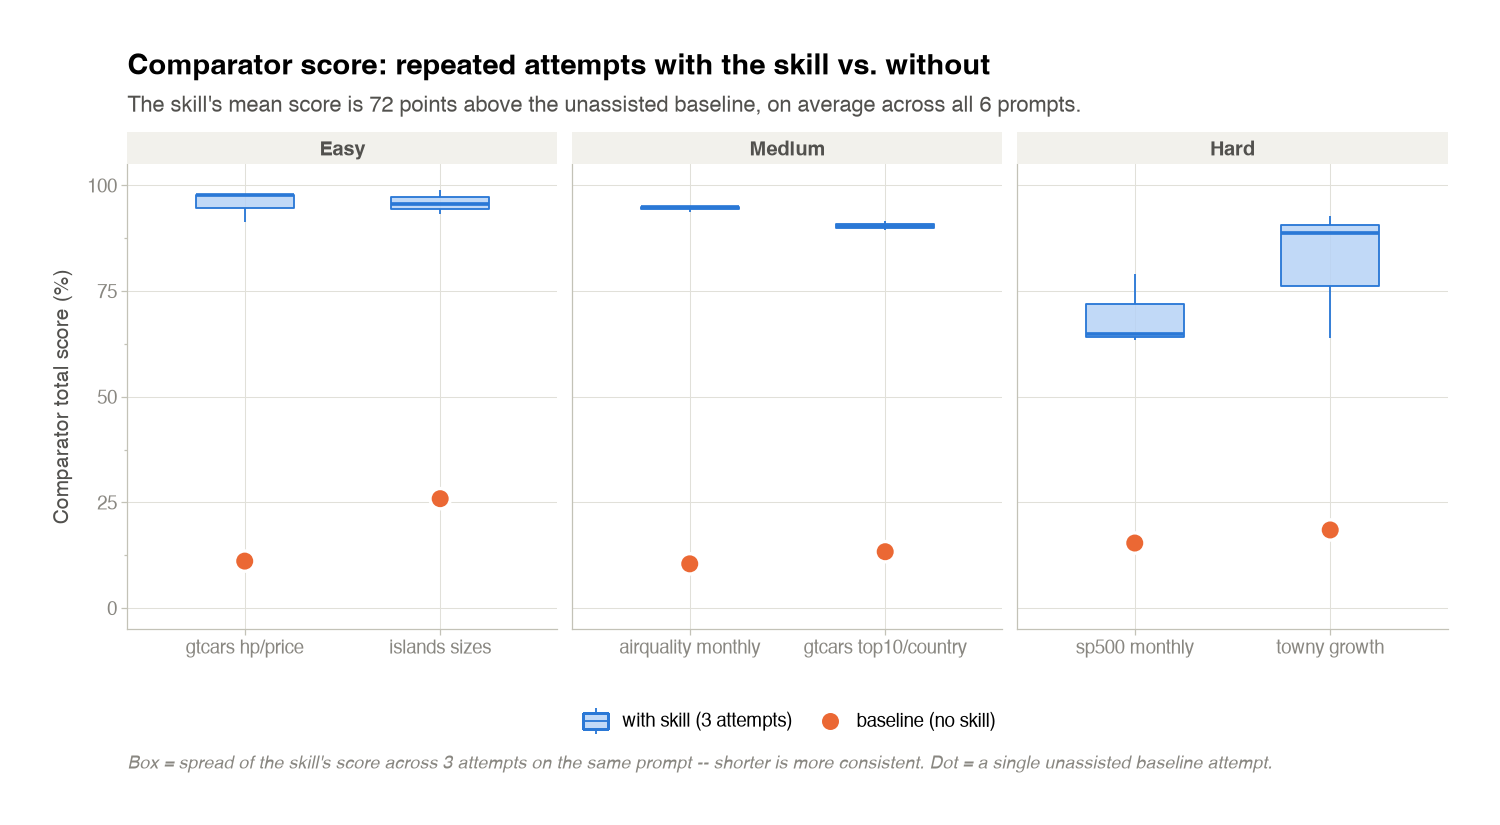
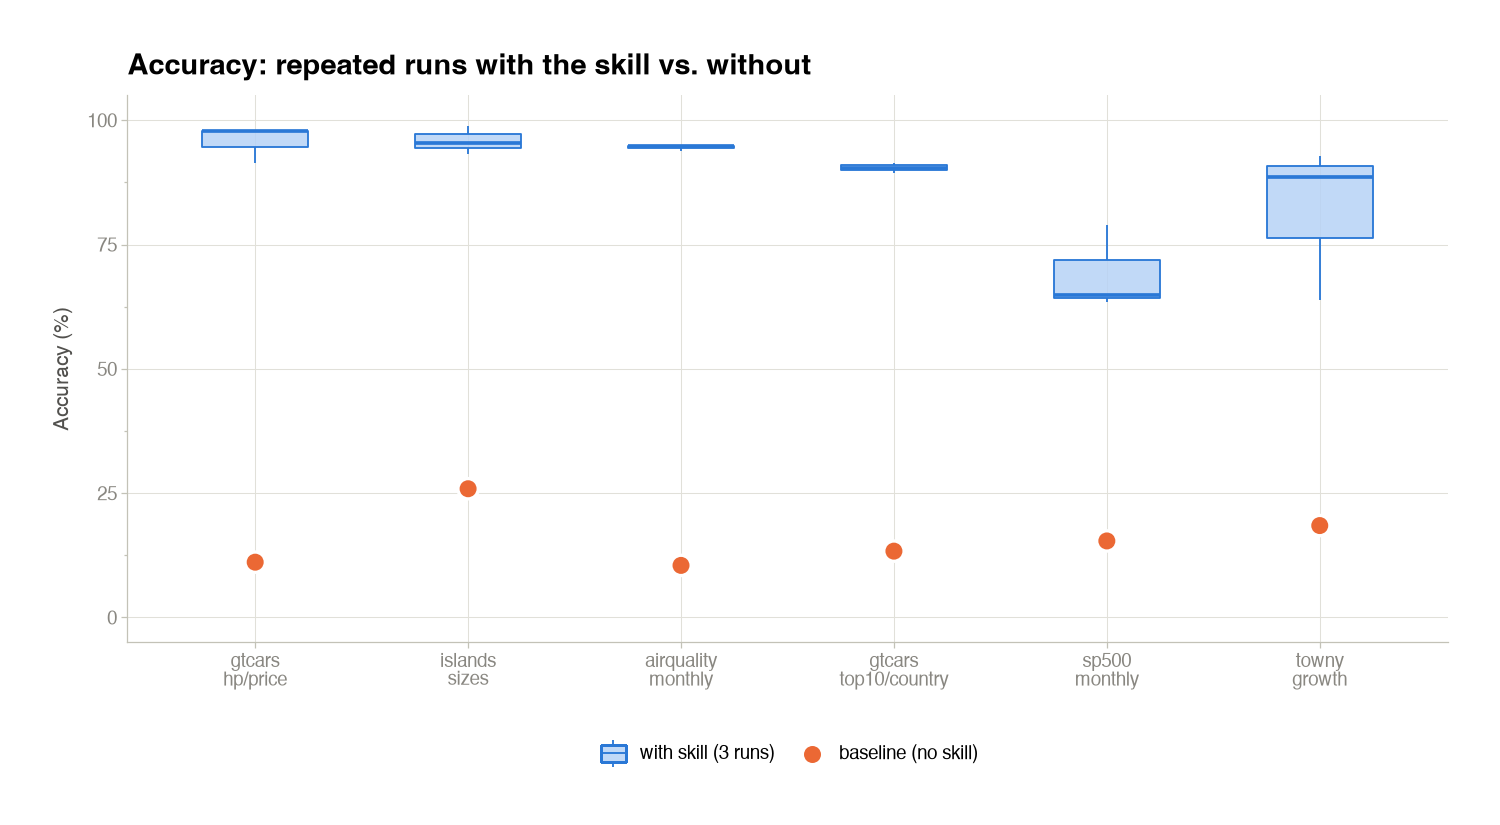
feat(plots): strip subtitle+caption from accuracy plot, rename 'attempts' to 'runs'
Applies four plot-cleanup items from the human's spec against the
existing metrics_plots.plot_comparator_score output:

- Chart title: 'Evaluation score: repeated attempts with the skill vs. without'
  -> 'Accuracy: repeated runs with the skill vs. without'.
- Y-axis label: 'Evaluation score (%)' -> 'Accuracy (%)'.
- Skill legend label: 'with skill (N attempts)' -> 'with skill (N runs)'.
- Subtitle (computed mean-lift sentence) and caption (box/dot legend
  gloss) removed entirely; the plot title + legend already say what the
  chart shows, and both were adding words that the human explicitly
  asked to strip.

Filename (evaluation_score.png) and all remaining chart mechanics
(palette, boxplot, baseline dot, ordering, y-limits, per-difficulty
split) are unchanged.

published-metrics/<skill>/evaluation_score.png regenerated for all four
skills from the good 6c685ce metrics.json blobs by calling
plots.plot_comparator_score directly (bypasses render_skill's
samples-based collect_metrics path so the cached scores from that
commit stay authoritative — no rescoring, no drift).

Tests unchanged (170 passed + 2 skipped).

diff --git a/metrics_plots/plots.py b/metrics_plots/plots.py
@@ -89,7 +89,7 @@ def _repeat_variants(metrics: dict) -> list[str]:
 
 def _skill_label(repeats: list[str]) -> str:
     n = len(repeats)
-    return f"with skill ({n} attempt{'s' if n != 1 else ''})"
+    return f"with skill ({n} run{'s' if n != 1 else ''})"
 
 
 def _adaptive_decimals(vals: list[float], min_decimals: int, max_decimals: int = 6) -> int:
@@ -245,17 +245,15 @@ def plot_comparator_score(
     prompt_labels: dict[str, str],
     out_path: Path,
 ) -> bool:
-    """Box plot of evaluation score across the skill's repeats per prompt
-    (box HEIGHT already IS the consistency metric — no separate chart
-    needed), with the baseline score as a point. Subtitle states the
-    computed mean lift over baseline.
+    """Box plot of accuracy across the skill's runs per prompt, with the
+    baseline score as a point. No subtitle, no caption — the plot title and
+    the legend already say what the chart shows.
 
     Returns whether a chart was actually written."""
     repeats = _repeat_variants(metrics)
     skill_label = _skill_label(repeats)
     box_rows = []
     point_rows = []
-    lifts = []
     order = []
     for pid in prompt_ids:
         entry = metrics["prompts"].get(pid)
@@ -277,8 +275,6 @@ def plot_comparator_score(
         baseline_pct = b["pct"] if b and b["pct"] is not None else None
         if baseline_pct is not None:
             point_rows.append({"prompt": label, "pct": baseline_pct, "group": BASELINE_LABEL})
-        if pcts and baseline_pct is not None:
-            lifts.append(float(np.mean(pcts)) - baseline_pct)
 
     if not box_rows:
         return False
@@ -288,37 +284,6 @@ def plot_comparator_score(
     point_df = pd.DataFrame(point_rows)
     if not point_df.empty:
         point_df["prompt"] = pd.Categorical(point_df["prompt"], categories=order, ordered=True)
-
-    if lifts:
-        mean_lift = float(np.mean(lifts))
-        rounded = round(abs(mean_lift))
-        prompt_word = "prompt" if len(prompt_ids) == 1 else "prompts"
-        coverage = (
-            f"across all {len(prompt_ids)} {prompt_word}"
-            if len(lifts) == len(prompt_ids)
-            else f"across the {len(lifts)} of {len(prompt_ids)} {prompt_word} with both a "
-            "baseline and at least one scored attempt"
-        )
-        if rounded == 0:
-            lift_line = (
-                f"The skill's mean score matches the unassisted baseline, on average {coverage}."
-            )
-        else:
-            direction = "above" if mean_lift >= 0 else "below"
-            point_word = "point" if rounded == 1 else "points"
-            lift_line = (
-                f"The skill's mean score is {rounded:.0f} {point_word} {direction} the "
-                f"unassisted baseline, on average {coverage}."
-            )
-    else:
-        lift_line = "Evaluation score per prompt, with the skill vs. without."
-
-    n = len(repeats)
-    caption = (
-        f"Box = spread of the skill's score across {n} attempt{'s' if n != 1 else ''} "
-        "on the same prompt — shorter is more consistent. "
-        "Dot = a single unassisted baseline attempt."
-    )
 
     plot = (
         ggplot(box_df, aes(x="prompt", y="pct"))
@@ -330,11 +295,9 @@ def plot_comparator_score(
         + scale_x_discrete(limits=order)
         + ylim(0, 100)
         + labs(
-            title="Evaluation score: repeated attempts with the skill vs. without",
-            subtitle=lift_line,
-            caption=caption,
+            title="Accuracy: repeated runs with the skill vs. without",
             x="",
-            y="Evaluation score (%)",
+            y="Accuracy (%)",
         )
         + base_theme()
     )
